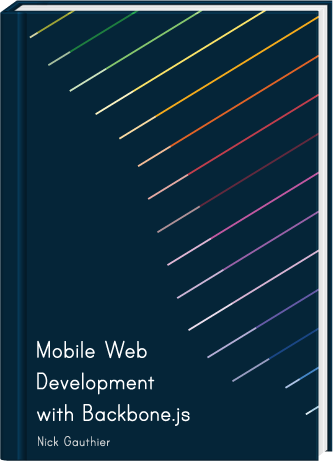
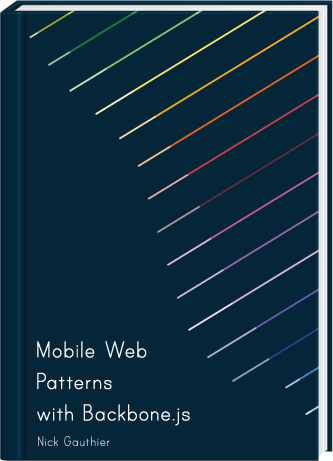
updated cover, text, and GA

diff --git a/index.html b/index.html
@@ -3,34 +3,40 @@
   <head>
     <title>Mobile Web Development with Backbone.js Book</title>
     <meta name="viewport" content="width=400">
+    <link href='http://fonts.googleapis.com/css?family=Open+Sans:400,700' rel='stylesheet' type='text/css'>
     <style>
-      @font-face {
-        font-family: "print-clearly";
-        src: url("/print_clearly_tt.ttf");
-      }
-      @font-face {
-        font-family: "print-clearly";
-        src: url("/print_bold_tt.ttf");
-        font-weight: bold;
-      }
       html, body {
         background-color: #142433;
         margin: 0;
         padding: 0;
-        font-family: Helvetica, Arial, sans-serif;
+        font-family: "Open Sans", sans-serif;
+      }
+      html, body, a {
         color: white;
       }
       body {
         padding: 10px 20px;
         text-align: center;
-      }
-      h1, h2, h3, h4, h5, h6 {
-        font-family: "print-clearly";
+        width: 400px;
+        margin: auto;
       }
     </style>
   </head>
   <body>
-    <img width=333 height=461 src='/cover.png' alt="Mobile Web Development with Backbone.js">
-    <h2>Alpha coming soon</h2>
+    <img width=333 height=461 src='/cover.png' alt="Mobile Web Patterns with Backbone.js">
+    <h2>Coming December 2012</h2>
+    <p>Mobile Web Patterns with Backbone.js is an e-book by <a href="http://ngauthier.com">Nick Gauthier</a> containing 12 common design patterns for mobile web application development</p>
+
+    <script type="text/javascript">
+      var _gaq = _gaq || [];
+      _gaq.push(['_setAccount', 'UA-37016163-1']);
+      _gaq.push(['_trackPageview']);
+      (function() {
+        var ga = document.createElement('script'); ga.type = 'text/javascript'; ga.async = true;
+        ga.src = ('https:' == document.location.protocol ? 'https://ssl' : 'http://www') + '.google-analytics.com/ga.js';
+        var s = document.getElementsByTagName('script')[0]; s.parentNode.insertBefore(ga, s);
+      })();
+
+    </script>
   </body>
 </html>
